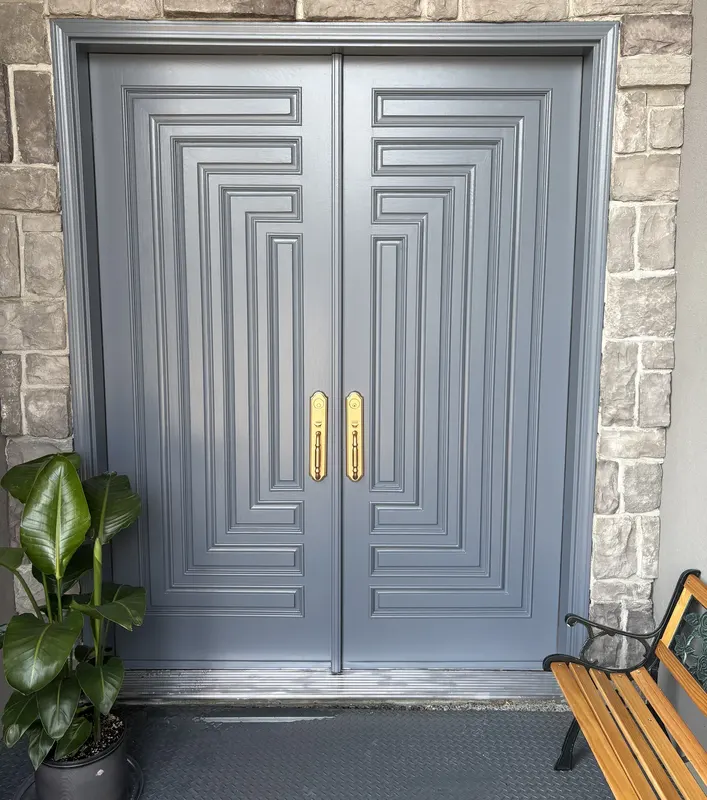
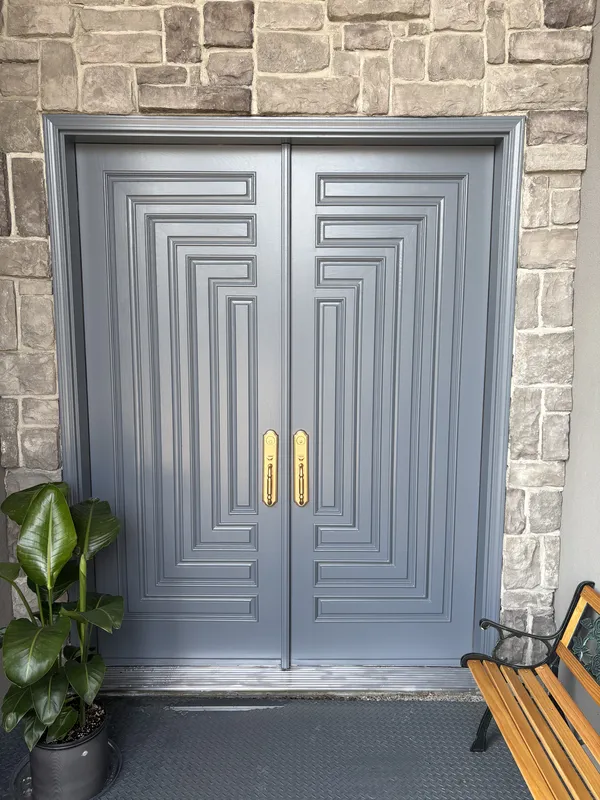
Door cards get portrait-safe boxes (full doors, no cropping); balance the whitespace under the mid-page CTA band

diff --git a/our-work.html b/our-work.html
@@ -127,6 +127,9 @@ section h2{font-size:30px;line-height:36px;font-weight:900;margin-bottom:12px}
 .ba{position:relative;display:grid;grid-template-columns:1fr 1fr;grid-template-rows:100%;gap:2px}
 .ba.single{grid-template-columns:1fr}
 .ba{aspect-ratio:16/9;overflow:hidden}
+.ba.tall{aspect-ratio:3/2}
+section.tight-b{padding-bottom:28px}
+.cta-band:last-child{margin-bottom:0}
 .ba img{height:100%;width:100%;min-height:0;object-fit:cover}
 .ba-chip{position:absolute;top:10px;font-family:'Barlow',sans-serif;font-size:11px;font-weight:700;letter-spacing:.96px;padding:4px 9px;border-radius:3px}
 .ba-chip.before{left:10px;background:rgba(20,20,20,.85);color:var(--white)}
@@ -287,6 +290,7 @@ footer{background:var(--dark);color:rgba(255,255,255,.7);font-size:14px}
   .ba{grid-template-columns:1fr 1fr;grid-template-rows:auto;aspect-ratio:auto}
   .ba.single{grid-template-columns:1fr}
   .ba img{height:150px}
+  .ba.tall img{height:232px}
   .ba.single img{height:210px}
   .ba-chip{font-size:10px;padding:3px 7px}
 
@@ -541,7 +545,7 @@ a.rating-link:hover{text-decoration:underline;text-decoration-color:var(--gold);
   </div>
 </div>
 
-<section>
+<section class="tight-b">
   <div class="wrap">
     <div class="sec-eyebrow">Recent Projects</div>
     <h2>Every project below is a real home in Richmond or Delta</h2>
@@ -747,7 +751,7 @@ a.rating-link:hover{text-decoration:underline;text-decoration-color:var(--gold);
       </div>
 
       <div class="card">
-        <div class="ba">
+        <div class="ba tall">
           <img src="img/work/rhuang-b.webp" alt="Front &amp; Garage Doors before, Richmond" loading="lazy" width="1400" height="1050">
           <img src="img/work/rhuang-a.webp" alt="Front &amp; Garage Doors after by Colour Craft Painting" loading="lazy" width="1400" height="1050">
           <span class="ba-chip before">BEFORE</span>
@@ -772,7 +776,7 @@ a.rating-link:hover{text-decoration:underline;text-decoration-color:var(--gold);
       </div>
 
       <div class="card">
-        <div class="ba">
+        <div class="ba tall">
           <img src="img/work/rhaunt-b.webp" alt="Front Door Refinish before, Richmond" loading="lazy" width="1400" height="1050">
           <img src="img/work/rhaunt-a.webp" alt="Front Door Refinish after by Colour Craft Painting" loading="lazy" width="1400" height="1050">
           <span class="ba-chip before">BEFORE</span>

diff --git a/src/pages/our-work.html b/src/pages/our-work.html
@@ -34,7 +34,7 @@
   </div>
 </div>
 
-<section>
+<section class="tight-b">
   <div class="wrap">
     <div class="sec-eyebrow">Recent Projects</div>
     <h2>Every project below is a real home in Richmond or Delta</h2>
@@ -240,7 +240,7 @@
       </div>
 
       <div class="card">
-        <div class="ba">
+        <div class="ba tall">
           <img src="img/work/rhuang-b.webp" alt="Front &amp; Garage Doors before, Richmond" loading="lazy" width="1400" height="1050">
           <img src="img/work/rhuang-a.webp" alt="Front &amp; Garage Doors after by Colour Craft Painting" loading="lazy" width="1400" height="1050">
           <span class="ba-chip before">BEFORE</span>
@@ -265,7 +265,7 @@
       </div>
 
       <div class="card">
-        <div class="ba">
+        <div class="ba tall">
           <img src="img/work/rhaunt-b.webp" alt="Front Door Refinish before, Richmond" loading="lazy" width="1400" height="1050">
           <img src="img/work/rhaunt-a.webp" alt="Front Door Refinish after by Colour Craft Painting" loading="lazy" width="1400" height="1050">
           <span class="ba-chip before">BEFORE</span>

diff --git a/contact.html b/contact.html
@@ -127,6 +127,9 @@ section h2{font-size:30px;line-height:36px;font-weight:900;margin-bottom:12px}
 .ba{position:relative;display:grid;grid-template-columns:1fr 1fr;grid-template-rows:100%;gap:2px}
 .ba.single{grid-template-columns:1fr}
 .ba{aspect-ratio:16/9;overflow:hidden}
+.ba.tall{aspect-ratio:3/2}
+section.tight-b{padding-bottom:28px}
+.cta-band:last-child{margin-bottom:0}
 .ba img{height:100%;width:100%;min-height:0;object-fit:cover}
 .ba-chip{position:absolute;top:10px;font-family:'Barlow',sans-serif;font-size:11px;font-weight:700;letter-spacing:.96px;padding:4px 9px;border-radius:3px}
 .ba-chip.before{left:10px;background:rgba(20,20,20,.85);color:var(--white)}
@@ -287,6 +290,7 @@ footer{background:var(--dark);color:rgba(255,255,255,.7);font-size:14px}
   .ba{grid-template-columns:1fr 1fr;grid-template-rows:auto;aspect-ratio:auto}
   .ba.single{grid-template-columns:1fr}
   .ba img{height:150px}
+  .ba.tall img{height:232px}
   .ba.single img{height:210px}
   .ba-chip{font-size:10px;padding:3px 7px}
 

diff --git a/deck-fence-painting.html b/deck-fence-painting.html
@@ -127,6 +127,9 @@ section h2{font-size:30px;line-height:36px;font-weight:900;margin-bottom:12px}
 .ba{position:relative;display:grid;grid-template-columns:1fr 1fr;grid-template-rows:100%;gap:2px}
 .ba.single{grid-template-columns:1fr}
 .ba{aspect-ratio:16/9;overflow:hidden}
+.ba.tall{aspect-ratio:3/2}
+section.tight-b{padding-bottom:28px}
+.cta-band:last-child{margin-bottom:0}
 .ba img{height:100%;width:100%;min-height:0;object-fit:cover}
 .ba-chip{position:absolute;top:10px;font-family:'Barlow',sans-serif;font-size:11px;font-weight:700;letter-spacing:.96px;padding:4px 9px;border-radius:3px}
 .ba-chip.before{left:10px;background:rgba(20,20,20,.85);color:var(--white)}
@@ -287,6 +290,7 @@ footer{background:var(--dark);color:rgba(255,255,255,.7);font-size:14px}
   .ba{grid-template-columns:1fr 1fr;grid-template-rows:auto;aspect-ratio:auto}
   .ba.single{grid-template-columns:1fr}
   .ba img{height:150px}
+  .ba.tall img{height:232px}
   .ba.single img{height:210px}
   .ba-chip{font-size:10px;padding:3px 7px}
 

diff --git a/exterior-painting.html b/exterior-painting.html
@@ -127,6 +127,9 @@ section h2{font-size:30px;line-height:36px;font-weight:900;margin-bottom:12px}
 .ba{position:relative;display:grid;grid-template-columns:1fr 1fr;grid-template-rows:100%;gap:2px}
 .ba.single{grid-template-columns:1fr}
 .ba{aspect-ratio:16/9;overflow:hidden}
+.ba.tall{aspect-ratio:3/2}
+section.tight-b{padding-bottom:28px}
+.cta-band:last-child{margin-bottom:0}
 .ba img{height:100%;width:100%;min-height:0;object-fit:cover}
 .ba-chip{position:absolute;top:10px;font-family:'Barlow',sans-serif;font-size:11px;font-weight:700;letter-spacing:.96px;padding:4px 9px;border-radius:3px}
 .ba-chip.before{left:10px;background:rgba(20,20,20,.85);color:var(--white)}
@@ -287,6 +290,7 @@ footer{background:var(--dark);color:rgba(255,255,255,.7);font-size:14px}
   .ba{grid-template-columns:1fr 1fr;grid-template-rows:auto;aspect-ratio:auto}
   .ba.single{grid-template-columns:1fr}
   .ba img{height:150px}
+  .ba.tall img{height:232px}
   .ba.single img{height:210px}
   .ba-chip{font-size:10px;padding:3px 7px}
 

diff --git a/index.html b/index.html
@@ -127,6 +127,9 @@ section h2{font-size:30px;line-height:36px;font-weight:900;margin-bottom:12px}
 .ba{position:relative;display:grid;grid-template-columns:1fr 1fr;grid-template-rows:100%;gap:2px}
 .ba.single{grid-template-columns:1fr}
 .ba{aspect-ratio:16/9;overflow:hidden}
+.ba.tall{aspect-ratio:3/2}
+section.tight-b{padding-bottom:28px}
+.cta-band:last-child{margin-bottom:0}
 .ba img{height:100%;width:100%;min-height:0;object-fit:cover}
 .ba-chip{position:absolute;top:10px;font-family:'Barlow',sans-serif;font-size:11px;font-weight:700;letter-spacing:.96px;padding:4px 9px;border-radius:3px}
 .ba-chip.before{left:10px;background:rgba(20,20,20,.85);color:var(--white)}
@@ -287,6 +290,7 @@ footer{background:var(--dark);color:rgba(255,255,255,.7);font-size:14px}
   .ba{grid-template-columns:1fr 1fr;grid-template-rows:auto;aspect-ratio:auto}
   .ba.single{grid-template-columns:1fr}
   .ba img{height:150px}
+  .ba.tall img{height:232px}
   .ba.single img{height:210px}
   .ba-chip{font-size:10px;padding:3px 7px}
 

diff --git a/interior-painting.html b/interior-painting.html
@@ -127,6 +127,9 @@ section h2{font-size:30px;line-height:36px;font-weight:900;margin-bottom:12px}
 .ba{position:relative;display:grid;grid-template-columns:1fr 1fr;grid-template-rows:100%;gap:2px}
 .ba.single{grid-template-columns:1fr}
 .ba{aspect-ratio:16/9;overflow:hidden}
+.ba.tall{aspect-ratio:3/2}
+section.tight-b{padding-bottom:28px}
+.cta-band:last-child{margin-bottom:0}
 .ba img{height:100%;width:100%;min-height:0;object-fit:cover}
 .ba-chip{position:absolute;top:10px;font-family:'Barlow',sans-serif;font-size:11px;font-weight:700;letter-spacing:.96px;padding:4px 9px;border-radius:3px}
 .ba-chip.before{left:10px;background:rgba(20,20,20,.85);color:var(--white)}
@@ -287,6 +290,7 @@ footer{background:var(--dark);color:rgba(255,255,255,.7);font-size:14px}
   .ba{grid-template-columns:1fr 1fr;grid-template-rows:auto;aspect-ratio:auto}
   .ba.single{grid-template-columns:1fr}
   .ba img{height:150px}
+  .ba.tall img{height:232px}
   .ba.single img{height:210px}
   .ba-chip{font-size:10px;padding:3px 7px}
 

diff --git a/reviews.html b/reviews.html
@@ -127,6 +127,9 @@ section h2{font-size:30px;line-height:36px;font-weight:900;margin-bottom:12px}
 .ba{position:relative;display:grid;grid-template-columns:1fr 1fr;grid-template-rows:100%;gap:2px}
 .ba.single{grid-template-columns:1fr}
 .ba{aspect-ratio:16/9;overflow:hidden}
+.ba.tall{aspect-ratio:3/2}
+section.tight-b{padding-bottom:28px}
+.cta-band:last-child{margin-bottom:0}
 .ba img{height:100%;width:100%;min-height:0;object-fit:cover}
 .ba-chip{position:absolute;top:10px;font-family:'Barlow',sans-serif;font-size:11px;font-weight:700;letter-spacing:.96px;padding:4px 9px;border-radius:3px}
 .ba-chip.before{left:10px;background:rgba(20,20,20,.85);color:var(--white)}
@@ -287,6 +290,7 @@ footer{background:var(--dark);color:rgba(255,255,255,.7);font-size:14px}
   .ba{grid-template-columns:1fr 1fr;grid-template-rows:auto;aspect-ratio:auto}
   .ba.single{grid-template-columns:1fr}
   .ba img{height:150px}
+  .ba.tall img{height:232px}
   .ba.single img{height:210px}
   .ba-chip{font-size:10px;padding:3px 7px}
 

diff --git a/why-us.html b/why-us.html
@@ -127,6 +127,9 @@ section h2{font-size:30px;line-height:36px;font-weight:900;margin-bottom:12px}
 .ba{position:relative;display:grid;grid-template-columns:1fr 1fr;grid-template-rows:100%;gap:2px}
 .ba.single{grid-template-columns:1fr}
 .ba{aspect-ratio:16/9;overflow:hidden}
+.ba.tall{aspect-ratio:3/2}
+section.tight-b{padding-bottom:28px}
+.cta-band:last-child{margin-bottom:0}
 .ba img{height:100%;width:100%;min-height:0;object-fit:cover}
 .ba-chip{position:absolute;top:10px;font-family:'Barlow',sans-serif;font-size:11px;font-weight:700;letter-spacing:.96px;padding:4px 9px;border-radius:3px}
 .ba-chip.before{left:10px;background:rgba(20,20,20,.85);color:var(--white)}
@@ -287,6 +290,7 @@ footer{background:var(--dark);color:rgba(255,255,255,.7);font-size:14px}
   .ba{grid-template-columns:1fr 1fr;grid-template-rows:auto;aspect-ratio:auto}
   .ba.single{grid-template-columns:1fr}
   .ba img{height:150px}
+  .ba.tall img{height:232px}
   .ba.single img{height:210px}
   .ba-chip{font-size:10px;padding:3px 7px}
 

diff --git a/src/css/site.css b/src/css/site.css
@@ -93,6 +93,9 @@ section h2{font-size:30px;line-height:36px;font-weight:900;margin-bottom:12px}
 .ba{position:relative;display:grid;grid-template-columns:1fr 1fr;grid-template-rows:100%;gap:2px}
 .ba.single{grid-template-columns:1fr}
 .ba{aspect-ratio:16/9;overflow:hidden}
+.ba.tall{aspect-ratio:3/2}
+section.tight-b{padding-bottom:28px}
+.cta-band:last-child{margin-bottom:0}
 .ba img{height:100%;width:100%;min-height:0;object-fit:cover}
 .ba-chip{position:absolute;top:10px;font-family:'Barlow',sans-serif;font-size:11px;font-weight:700;letter-spacing:.96px;padding:4px 9px;border-radius:3px}
 .ba-chip.before{left:10px;background:rgba(20,20,20,.85);color:var(--white)}
@@ -253,6 +256,7 @@ footer{background:var(--dark);color:rgba(255,255,255,.7);font-size:14px}
   .ba{grid-template-columns:1fr 1fr;grid-template-rows:auto;aspect-ratio:auto}
   .ba.single{grid-template-columns:1fr}
   .ba img{height:150px}
+  .ba.tall img{height:232px}
   .ba.single img{height:210px}
   .ba-chip{font-size:10px;padding:3px 7px}
 
